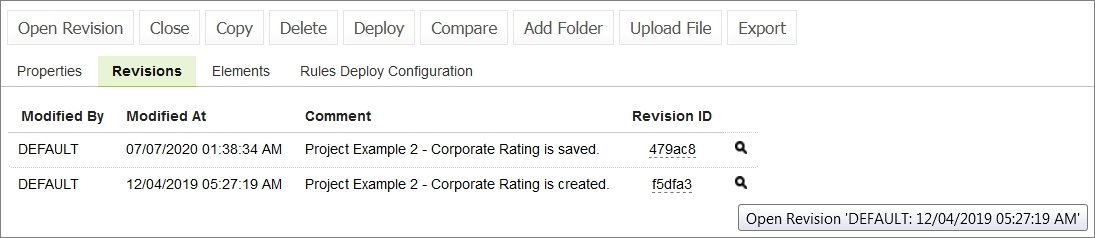
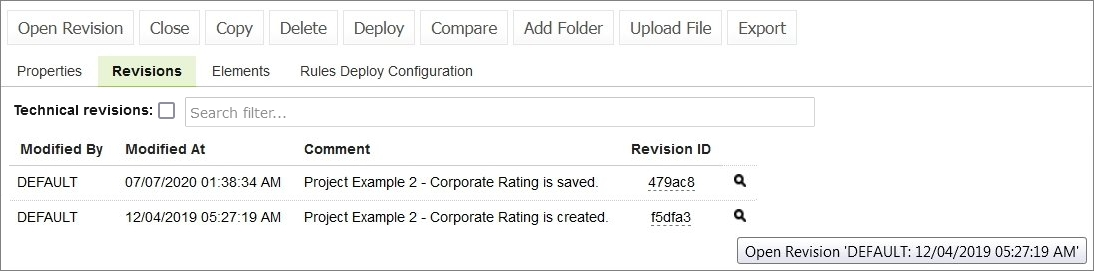
EPBDS-13658 notes about tech revisions

diff --git a/docs/documentation/guides/webstudio_user_guide.md b/docs/documentation/guides/webstudio_user_guide.md
@@ -2108,6 +2108,10 @@ If user tries to modify an old revision of the project, the system displays the 
 
 Revisions can also be accessed through Editor by selecting **More \> Revisions** for a project.
 
+The features  **Technical Revision** and **Search filter** are available Git design repository which help users navigate the repository more effectively.<br/> 
+The **Technical Revisions** when checked  allows users to see the revisions that  are not directly related to the current project (for example changes related to code updates or changes in other projects).<br/>
+The **Search filter** field help users quickly locate specific revisions by searching through the comments, modified by, and revision IDs.
+
 ### Closing a Project
 
 Closing a project deletes it from the user's workspace. No changes made to the project will be applied and stored. From that point, the project is not available for selection in Rules Editor. Users can still browse closed projects in repository editor.
